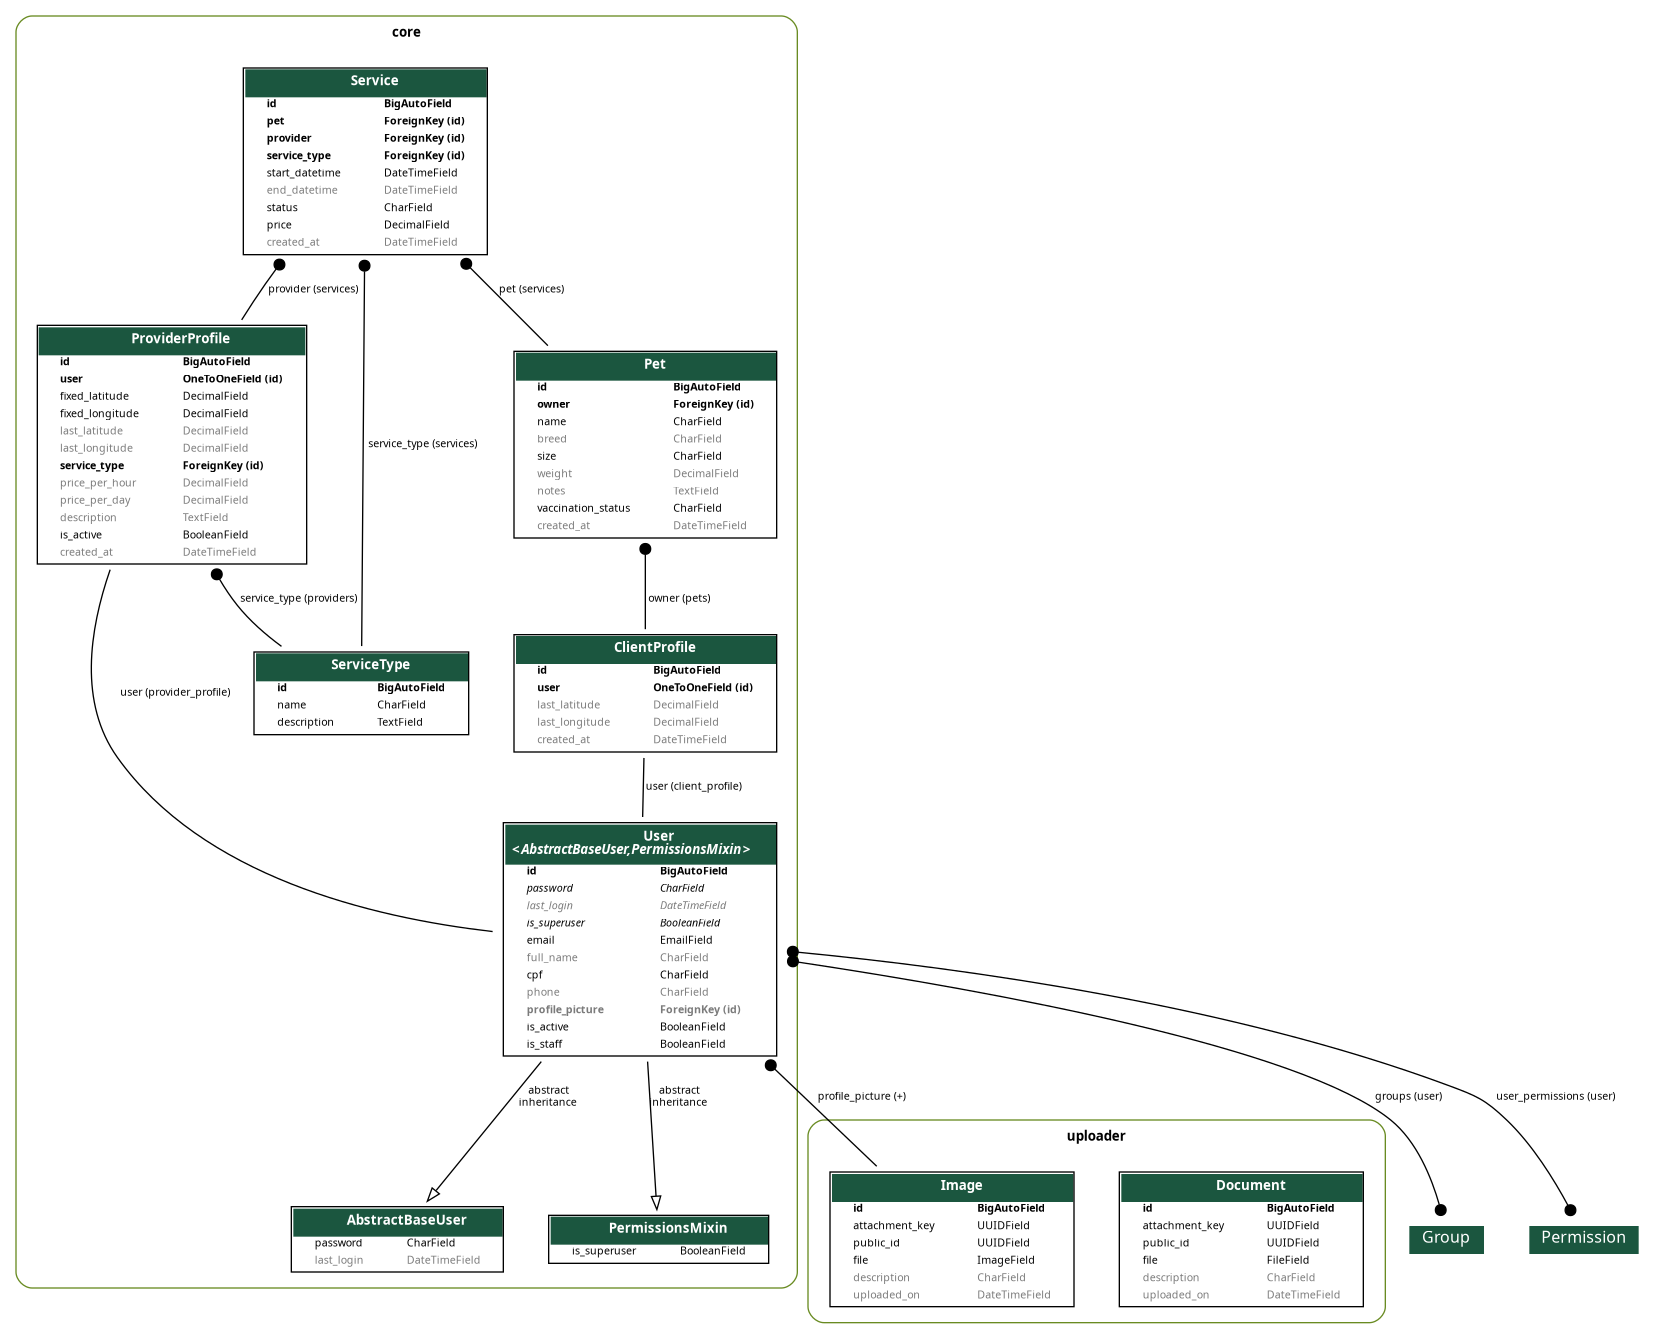
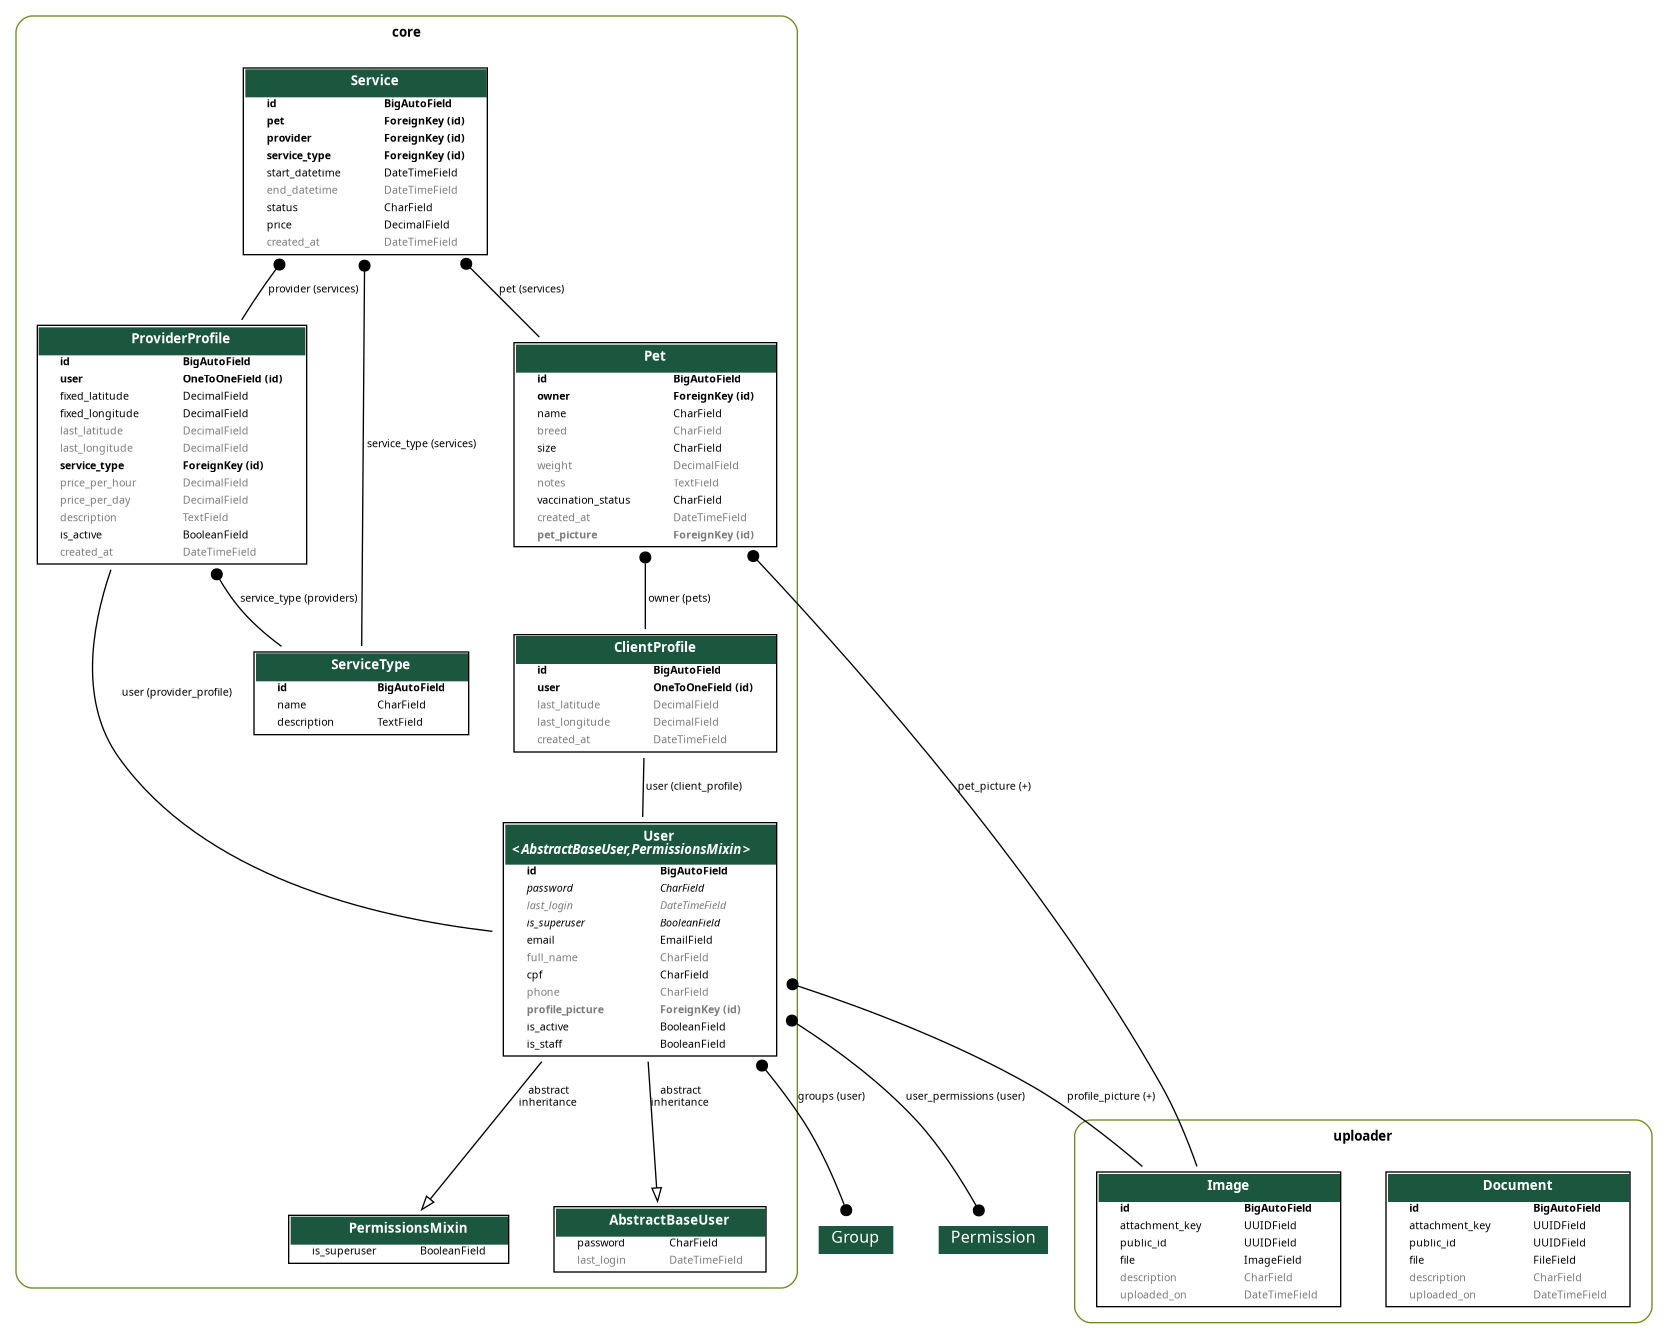
FEAT: Profile pictures added to user profile #10

diff --git a/core/serializers/user.py b/core/serializers/user.py
@@ -1,24 +1,23 @@
-from tkinter import Image
-
 from rest_framework import serializers
 from rest_framework.serializers import ModelSerializer, SlugRelatedField
 
 from core.models import User
-from uploader.serializers.image import ImageSerializer
+from uploader.models import Image
+from uploader.serializers import ImageSerializer
 
 
 class UserSerializer(ModelSerializer):
+    profile_picture_attachment_key = SlugRelatedField(
+        source='profile_picture',
+        queryset=Image.objects.all(),
+        slug_field='attachment_key',
+        required=False,
+        write_only=True,
+    )
+    profile_picture = ImageSerializer(required=False, read_only=True)
+
     class Meta:
         model = User
-        profile_picture_attachment_key = SlugRelatedField(
-            source='profile_picture',
-            queryset=Image.objects.all(),
-            slug_field='attachment_key',
-            required=False,
-            write_only=True,
-        )
-        profile_picture = ImageSerializer(required=False, read_only=True)
-
         fields = [
             'id',
             'email',
@@ -30,7 +29,7 @@ class UserSerializer(ModelSerializer):
             'is_superuser',
             'last_login',
             'groups',
-            'profie_picture',
+            'profile_picture',
             'profile_picture_attachment_key'
         ]
 

diff --git a/core/migrations/0016_pet_pet_picture.py b/core/migrations/0016_pet_pet_picture.py
@@ -1,0 +1,20 @@
+# Generated by Django 5.2.13 on 2026-04-29 12:21
+
+import django.db.models.deletion
+from django.db import migrations, models
+
+
+class Migration(migrations.Migration):
+
+    dependencies = [
+        ('core', '0015_user_profile_picture'),
+        ('uploader', '0001_initial'),
+    ]
+
+    operations = [
+        migrations.AddField(
+            model_name='pet',
+            name='pet_picture',
+            field=models.ForeignKey(blank=True, default=None, null=True, on_delete=django.db.models.deletion.SET_NULL, related_name='+', to='uploader.image'),
+        ),
+    ]

diff --git a/core/serializers/pet.py b/core/serializers/pet.py
@@ -1,9 +1,21 @@
 from rest_framework import serializers
+from rest_framework.serializers import SlugRelatedField
 
 from core.models import ClientProfile, Pet
+from uploader.models import Image
+from uploader.serializers import ImageSerializer
 
 
 class PetSerializer(serializers.ModelSerializer):
+    pet_profile_attachment_key = SlugRelatedField(
+        source='pet_profile',
+        queryset=Image,
+        slug_field='attachment_key',
+        required=False,
+        write_only=True,
+    )
+    pet_profile = ImageSerializer(required=False, read_only=True)
+
     class Meta:
         model = Pet
         fields = (
@@ -15,7 +27,9 @@ class PetSerializer(serializers.ModelSerializer):
             'weight',
             'notes',
             'vaccination_status',
-            'created_at'
+            'created_at',
+            'pet_profile',
+            'pet_profile_attachment_key'
         )
         read_only_fields = ('id', 'owner', 'created_at')
 
@@ -31,6 +45,7 @@ class PetSerializer(serializers.ModelSerializer):
 
 
 class PetDetailSerializer(serializers.ModelSerializer):
+    pet_profile = ImageSerializer(required=False)
     class Meta:
         model = Pet
         fields = (
@@ -43,6 +58,8 @@ class PetDetailSerializer(serializers.ModelSerializer):
             'notes',
             'vaccination_status',
             'created_at'
+            'pet_profile',
+            'pet_profile_attachment_key'
         )
         read_only_fields = ('id', 'owner', 'created_at')
         depth = 2

diff --git a/core/models/pet.py b/core/models/pet.py
@@ -1,5 +1,7 @@
 from django.db import models
 
+from uploader.models import Image
+
 from .profile import ClientProfile
 
 
@@ -22,6 +24,14 @@ class Pet(models.Model):
     notes = models.TextField(null=True, blank=True)
     vaccination_status = models.CharField(max_length=1, choices=VaccinationStatus.choices)
     created_at = models.DateTimeField(auto_now_add=True)
+    pet_picture = models.ForeignKey(
+        Image,
+        related_name='+',
+        on_delete=models.SET_NULL,
+        null=True,
+        blank=True,
+        default=None,
+    )
 
     def __str__(self):
         return f'({self.id}) {self.name}, dono: {self.owner.user.email}'

diff --git a/core/admin.py b/core/admin.py
@@ -15,7 +15,7 @@ class UserAdmin(BaseUserAdmin):
     ordering = ['id']
     list_display = ['email', 'full_name']
     fieldsets = (
-        (None, {'fields': ('email', 'password')}),
+        (None, {'fields': ('profile_picture', 'email', 'password')}),
         (_('Personal Info'), {'fields': ('full_name',)}),
         (
             _('Permissions'),
@@ -38,6 +38,7 @@ class UserAdmin(BaseUserAdmin):
             {
                 'classes': ('wide',),
                 'fields': (
+                    'profile_picture',
                     'email',
                     'password1',
                     'password2',

diff --git a/app/settings.py b/app/settings.py
@@ -117,7 +117,7 @@ FILE_UPLOAD_PERMISSIONS = 0o640
 # Configurações específicas para desenvolvimento, migração e produção
 if MODE == 'DEVELOPMENT':
     MY_IP = os.getenv('MY_IP', '127.0.0.1')
-    MEDIA_URL = f'http://{MY_IP}:19003/media/'
+    MEDIA_URL = 'http://127.0.0.1:8000/media/'
 else:
     MEDIA_URL = '/media/'
     CLOUDINARY_URL = os.getenv('CLOUDINARY_URL')